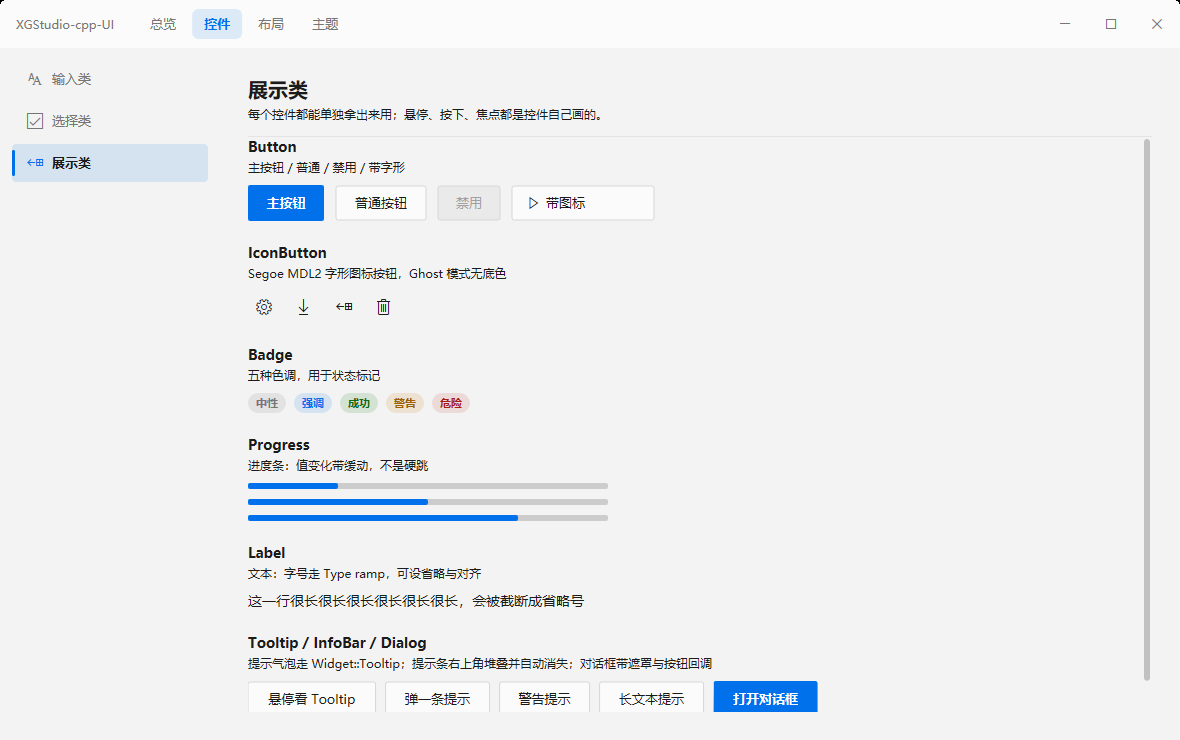
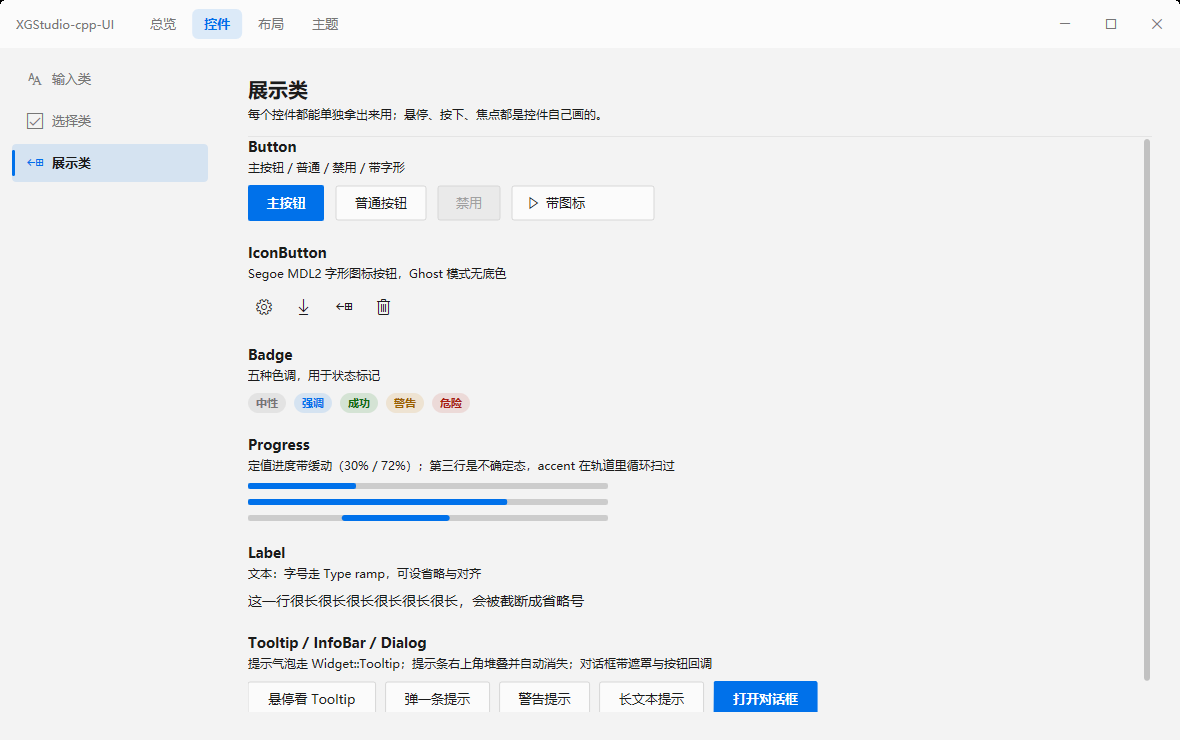
feat(controls): add indeterminate mode to Progress
Progress::Indeterminate sweeps an accent segment back and forth inside the track with a cosine ease, clipped to the rounded track so the ends never pop. Update keeps returning true while indeterminate so the frame loop stays awake, and the demo showcase now renders a real looping bar instead of a third static value.

Changed region(s): [[0.2136, 0.6216, 0.5797, 0.7149]]

diff --git a/src/Controls.cpp b/src/Controls.cpp
@@ -672,6 +672,13 @@ D2D1_SIZE_F Progress::Desired(float availW, float availH) {
 }
 
 bool Progress::Update(float dt) {
+    if (Indeterminate) {
+        Widget::Update(dt);
+        Phase += dt / 2.f;             // 来回一趟 2s（去 1s + 回 1s），跟 Fluent 的不确定节奏接近
+        if (Phase >= 1.f) Phase -= 1.f;
+        AnimDirty = true;
+        return true;                   // 循环进度是持续动画：让帧循环别睡
+    }
     bool changed = Widget::Update(dt);
     if (aVal < 0.f) aVal = Value;
     if (std::abs(aVal - Value) > .0005f) {
@@ -686,9 +693,24 @@ bool Progress::Update(float dt) {
 
 void Progress::Paint(PaintCtx& ctx) {
     const Tokens& t = ctx.t;
-    float v = aVal < 0.f ? Value : aVal;
     float rad = 2.f;
     ctx.g.RoundRect(fr_, rad, Mix(t.wz, t.bj, .82f));
+
+    if (Indeterminate) {
+        // 一段 accent 在轨道里左右往返，两端各留一小截在轨道内（不会整根消失后再冒出来），
+        // 走出轨道的那部分靠裁剪吃掉，所以边缘是干净的直切而不是硬跳。
+        float w = fr_.right - fr_.left;
+        float segW = std::clamp(w * .30f, 24.f, w);       // 段长约 30%，短条也不会小到看不见
+        float eased = .5f - .5f * std::cos(Phase * 6.2831853f);   // 往返一趟，两端自然减速
+        float x0 = fr_.left - segW * .65f + (w + segW * .30f) * eased;
+        D2D1_RECT_F seg{ x0, fr_.top, x0 + segW, fr_.bottom };
+        ctx.g.PushClip(fr_);
+        ctx.g.RoundRect(seg, (fr_.bottom - fr_.top) > 4.f ? (fr_.bottom - fr_.top) * .5f : rad, t.accent);
+        ctx.g.PopClip();
+        return;
+    }
+
+    float v = aVal < 0.f ? Value : aVal;
     if (v > 0.f) {
         D2D1_RECT_F f = fr_;
         f.right = fr_.left + (fr_.right - fr_.left) * v;

diff --git a/demo/frame.cpp b/demo/frame.cpp
@@ -294,12 +294,18 @@ int WINAPI wWinMain(HINSTANCE, HINSTANCE, PWSTR, int) {
             col->Add(b3);
 
             auto b4 = VBox(10.f);
-            b4->Add(DemoHead(L"Progress", L"进度条：值变化带缓动，不是硬跳"));
-            for (int i = 0; i < 3; ++i) {
-                auto p = std::make_shared<Progress>(.25f + .25f * i);
-                p->W = 360.f;
-                b4->Add(p);
-            }
+            b4->Add(DemoHead(L"Progress",
+                             L"定值进度带缓动（30% / 72%）；第三行是不确定态，accent 在轨道里循环扫过"));
+            auto p1 = std::make_shared<Progress>(.30f);
+            p1->W = 360.f;
+            auto p2 = std::make_shared<Progress>(.72f);
+            p2->W = 360.f;
+            auto p3 = std::make_shared<Progress>();
+            p3->Indeterminate = true;      // 循环态：Phase 自己走，帧循环不会睡
+            p3->W = 360.f;
+            b4->Add(p1);
+            b4->Add(p2);
+            b4->Add(p3);
             col->Add(b4);
 
             auto b5 = VBox(10.f);

diff --git a/include/vcui/Controls.h b/include/vcui/Controls.h
@@ -170,6 +170,10 @@ class VCUI_API Progress : public Widget {
 public:
     float Value = .42f;
     float aVal = -1.f;
+    // 不确定进度：一段 accent 在轨道里来回循环扫过，Value 不参与绘制。
+    // 打开后控件每帧都标脏，所以所在页面会一直保持 60fps（没有别的动画时也不会睡）。
+    bool Indeterminate = false;
+    float Phase = 0.f;                  // 循环相位 0..1，Indeterminate 时按 dt 自走
     Progress() { H = 6.f; }
     explicit Progress(float v) : Value(v) { H = 6.f; }
 

diff --git a/README.md b/README.md
@@ -171,7 +171,7 @@ return vcui::CreateAppWindow(o);
 | `Switch` | `On`、`Changed(bool)`；滑块位置带缓动 |
 | `Input` | `Text`、`Placeholder`、`Caret`、`SelAnchor`、`MaxWidth`、`Changed(str)`、`Submitted` |
 | `Slider` | `Value`(0..1)、`Changed(float)`；点轨道即吸附，键盘可步进 |
-| `Progress` | `Value`(0..1)，值变化带缓动 |
+| `Progress` | `Value`(0..1)，值变化带缓动；`Indeterminate = true` 切不确定态——一段 accent 在轨道里来回循环，不用手动喂进度 |
 | `Segmented` | `Items`、`Active`、`Changed(int)`；选中胶囊在段间滑动 |
 | `Badge` | `Text`、`ToneKind`（Neutral / Accent / Success / Warning / Danger） |
 | `NavItem` | `Text`、`Glyph`、`Active`、`Clicked`；**同一父容器下自动构成单选组**（点谁谁亮、兄弟熄灭） |
@@ -383,6 +383,15 @@ row->FadeIn(.252f, 8.f, .12f);   // 单项 + 指定延迟
 - `StaggerIn` 给直接子项依次加延迟；遇到 `ScrollView` 会下钻一层，让列表里**每一行**各自错峰
 - 会自动 `PlayAnim()` 唤醒帧循环；不调它的话循环在静止状态是睡着的
 - 每项动画都会把自己标成 `AnimDirty`，`Tick` 只重绘那一块（含 28px 阴影余量）
+
+一部分控件自带持续动画，不需要外部驱动：
+
+```cpp
+auto p = std::make_shared<Progress>();
+p->Indeterminate = true;    // 不确定态：一段 accent 在轨道里左右往返（单趟 1s），Value 不参与绘制
+```
+
+`Indeterminate` 打开后 `Progress::Update` 每帧都返回 true，所在窗口会一直保持 60fps（其它控件都静止也不会睡）。这是预期行为——不确定进度本来就是持续动画。切页 / 销毁后自动恢复空闲。
 
 ## 自定义控件
 
